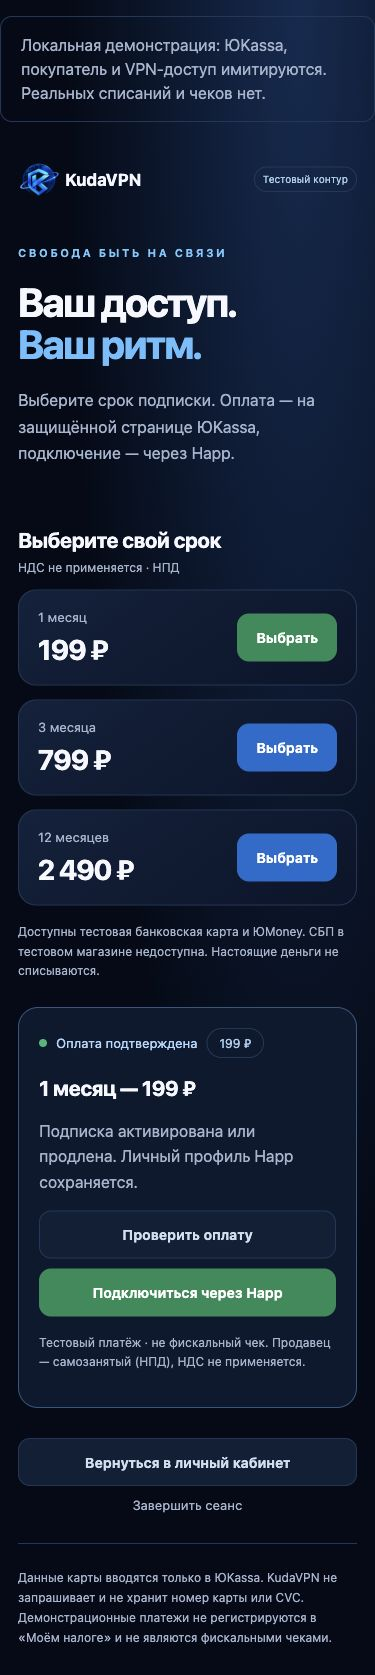
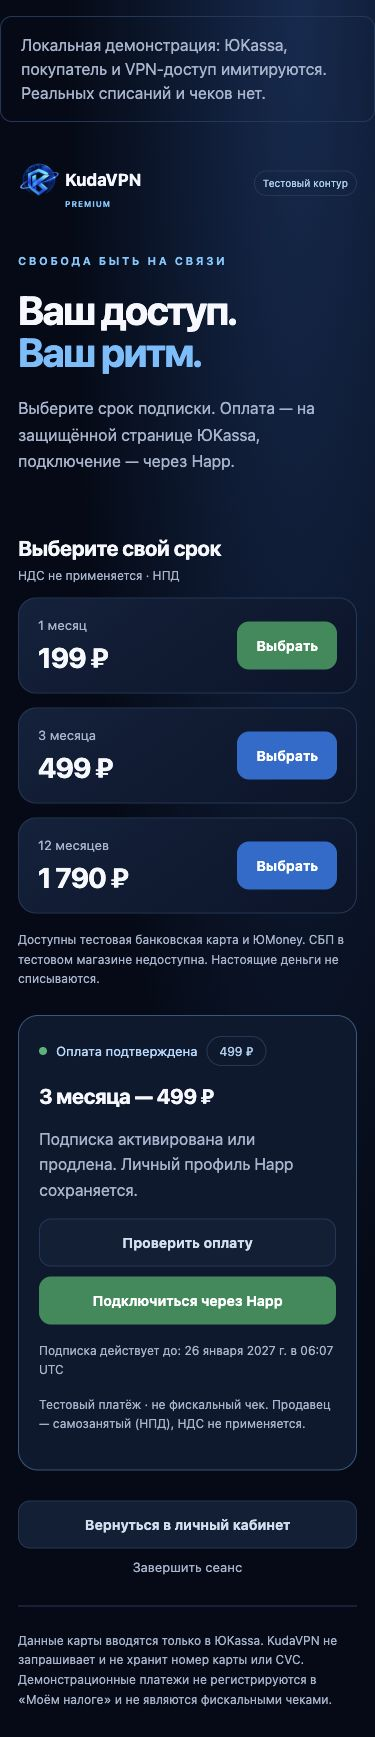
Version approved test prices and prove checkout recovery without duplicate access

diff --git a/bot/subscription_api/static/checkout.css b/bot/subscription_api/static/checkout.css
@@ -1,1 +1,1 @@
-:root{color-scheme:dark;--bg:#040a17;--surface:#0a1730;--line:#203858;--blue:#209dff;--green:#2db677;--muted:#a4b4ce}*{box-sizing:border-box}body{margin:0;background:radial-gradient(ellipse at 80% 0,#102b51,transparent 55%),var(--bg);color:#f5f8ff;font-family:system-ui,-apple-system,BlinkMacSystemFont,"Segoe UI",sans-serif;min-height:100vh}.shell{max-width:1080px;margin:auto;padding:30px 36px 40px}header{display:flex;align-items:center;justify-content:space-between;gap:20px}.brand{display:flex;align-items:center;gap:9px;text-decoration:none;color:inherit;font-size:21px;font-weight:700}.brand img{width:54px;height:54px;object-fit:contain}.brand span{font-size:11px;color:#70c6ff;letter-spacing:.1em;text-transform:uppercase}.badge{border:1px solid var(--line);border-radius:99px;padding:7px 12px;font-size:12px;white-space:nowrap;color:#a8ceef}.hero{padding:54px 0 28px;max-width:650px}.eyebrow{font-size:11px;letter-spacing:.23em;color:#73c8ff;font-weight:650}h1{font-size:clamp(40px,7vw,68px);line-height:1.05;letter-spacing:-.045em;margin:22px 0}h1 span{color:#68bfff}.lead{color:var(--muted);line-height:1.65;max-width:560px;font-size:16px}h2{font-size:21px;letter-spacing:-.02em}.section-heading{display:flex;gap:16px;align-items:center;justify-content:space-between}.section-heading span{font-size:12px;color:var(--muted)}.plans{display:grid;grid-template-columns:repeat(3,1fr);gap:14px}.plan{border:1px solid var(--line);border-radius:18px;background:linear-gradient(145deg,#11223d,#09142a);padding:23px}.plan p{margin:0;color:var(--muted);font-size:13px}.plan strong{display:block;font-size:32px;letter-spacing:-.04em;margin:15px 0 20px}.button{display:inline-flex;align-items:center;justify-content:center;min-height:48px;padding:12px 18px;border-radius:12px;border:1px solid transparent;text-decoration:none;font:inherit;font-size:14px;font-weight:650;cursor:pointer;transition:filter .18s,transform .18s;color:#fff}.button:hover{filter:brightness(1.1)}.button:active{transform:translateY(1px)}.button:focus-visible,.text-button:focus-visible,a:focus-visible{outline:3px solid #83ceff;outline-offset:3px}.button:disabled{opacity:.55;cursor:wait}.plan .button{width:100%}.green{background:#218b58}.blue{background:#176dd0}.secondary{background:#101f37;border-color:var(--line);color:#d0def0}.small,footer{font-size:12px;line-height:1.65;color:var(--muted)}.small{margin:16px 0}.order{border:1px solid #31577f;border-radius:20px;padding:25px;margin-top:26px;background:#0b1930}.status-head{display:flex;align-items:center;gap:9px;font-size:13px;color:#b1d9ff}.status-head .badge{margin-left:auto}.status-dot{width:8px;height:8px;border-radius:50%;background:var(--blue)}.status-dot.success{background:var(--green)}.status-dot.error{background:#e5a064}.order p{line-height:1.6;color:var(--muted)}.actions,.account-actions{display:flex;flex-wrap:wrap;gap:10px}.account-actions{justify-content:space-between;align-items:center;margin:30px 0}.text-button{border:0;background:none;color:var(--muted);font:inherit;font-size:13px;cursor:pointer}.notice{padding:16px 20px;border:1px solid var(--line);border-radius:12px;color:var(--muted);line-height:1.5}.notice.error{border-color:#80623f;color:#efd2ad}footer{border-top:1px solid var(--line);padding-top:24px;margin-top:30px}[hidden]{display:none!important}@media(max-width:650px){.shell{padding:20px 18px 28px}.brand{font-size:17px;gap:5px}.brand img{width:42px;height:42px}.brand span{display:none}.hero{padding-top:35px}.plans{grid-template-columns:1fr}.plan{display:grid;grid-template-columns:1fr auto;column-gap:14px;padding:19px}.plan strong{grid-column:1;margin:8px 0 0;font-size:28px}.plan .button{grid-column:2;grid-row:1/3;align-self:center;width:auto}.section-heading{align-items:flex-start;flex-direction:column;gap:0;margin-bottom:15px}.section-heading h2{margin-bottom:8px}.order{padding:20px}.actions>.button,.account-actions>.button{width:100%}.account-actions{justify-content:center}.status-head{flex-wrap:wrap}.status-head .badge{margin-left:0}header>.badge{font-size:10px;padding:6px 8px}}@media(prefers-reduced-motion:reduce){*,*:before,*:after{transition:none!important;animation:none!important;scroll-behavior:auto!important}}
+:root{color-scheme:dark;--bg:#040a17;--surface:#0a1730;--line:#203858;--blue:#209dff;--green:#2db677;--muted:#a4b4ce}*{box-sizing:border-box}body{margin:0;background:radial-gradient(ellipse at 80% 0,#102b51,transparent 55%),var(--bg);color:#f5f8ff;font-family:system-ui,-apple-system,BlinkMacSystemFont,"Segoe UI",sans-serif;min-height:100vh}.shell{max-width:1080px;margin:auto;padding:30px 36px 40px}header{display:flex;align-items:center;justify-content:space-between;gap:20px}.brand{display:flex;align-items:center;gap:9px;text-decoration:none;color:inherit;font-size:21px;font-weight:700}.brand img{width:54px;height:54px;object-fit:contain}.brand span{font-size:11px;color:#70c6ff;letter-spacing:.1em;text-transform:uppercase}.badge{border:1px solid var(--line);border-radius:99px;padding:7px 12px;font-size:12px;white-space:nowrap;color:#a8ceef}.hero{padding:54px 0 28px;max-width:650px}.eyebrow{font-size:11px;letter-spacing:.23em;color:#73c8ff;font-weight:650}h1{font-size:clamp(40px,7vw,68px);line-height:1.05;letter-spacing:-.045em;margin:22px 0}h1 span{color:#68bfff}.lead{color:var(--muted);line-height:1.65;max-width:560px;font-size:16px}h2{font-size:21px;letter-spacing:-.02em}.section-heading{display:flex;gap:16px;align-items:center;justify-content:space-between}.section-heading span{font-size:12px;color:var(--muted)}.plans{display:grid;grid-template-columns:repeat(3,1fr);gap:14px}.plan{border:1px solid var(--line);border-radius:18px;background:linear-gradient(145deg,#11223d,#09142a);padding:23px}.plan p{margin:0;color:var(--muted);font-size:13px}.plan strong{display:block;font-size:32px;letter-spacing:-.04em;margin:15px 0 20px}.button{display:inline-flex;align-items:center;justify-content:center;min-height:48px;padding:12px 18px;border-radius:12px;border:1px solid transparent;text-decoration:none;font:inherit;font-size:14px;font-weight:650;cursor:pointer;transition:filter .18s,transform .18s;color:#fff}.button:hover{filter:brightness(1.1)}.button:active{transform:translateY(1px)}.button:focus-visible,.text-button:focus-visible,a:focus-visible{outline:3px solid #83ceff;outline-offset:3px}.button:disabled{opacity:.55;cursor:wait}.plan .button{width:100%}.green{background:#218b58}.blue{background:#176dd0}.secondary{background:#101f37;border-color:var(--line);color:#d0def0}.small,footer{font-size:12px;line-height:1.65;color:var(--muted)}.small{margin:16px 0}.order{border:1px solid #31577f;border-radius:20px;padding:25px;margin-top:26px;background:#0b1930}.status-head{display:flex;align-items:center;gap:9px;font-size:13px;color:#b1d9ff}.status-head .badge{margin-left:auto}.status-dot{width:8px;height:8px;border-radius:50%;background:var(--blue)}.status-dot.success{background:var(--green)}.status-dot.error{background:#e5a064}.order p{line-height:1.6;color:var(--muted)}.actions,.account-actions{display:flex;flex-wrap:wrap;gap:10px}.account-actions{justify-content:space-between;align-items:center;margin:30px 0}.text-button{border:0;background:none;color:var(--muted);font:inherit;font-size:13px;cursor:pointer}.notice{padding:16px 20px;border:1px solid var(--line);border-radius:12px;color:var(--muted);line-height:1.5}.notice.error{border-color:#80623f;color:#efd2ad}footer{border-top:1px solid var(--line);padding-top:24px;margin-top:30px}[hidden]{display:none!important}@media(max-width:650px){.shell{padding:20px 18px 28px}.brand{font-size:17px;gap:5px}.brand img{width:42px;height:42px}.brand{position:relative;padding-bottom:8px}.brand span{display:block;position:absolute;left:47px;bottom:0;font-size:8px;line-height:1}.hero{padding-top:35px}.plans{grid-template-columns:1fr}.plan{display:grid;grid-template-columns:1fr auto;column-gap:14px;padding:19px}.plan strong{grid-column:1;margin:8px 0 0;font-size:28px}.plan .button{grid-column:2;grid-row:1/3;align-self:center;width:auto}.section-heading{align-items:flex-start;flex-direction:column;gap:0;margin-bottom:15px}.section-heading h2{margin-bottom:8px}.order{padding:20px}.actions>.button,.account-actions>.button{width:100%}.account-actions{justify-content:center}.status-head{flex-wrap:wrap}.status-head .badge{margin-left:0}header>.badge{font-size:10px;padding:6px 8px}}@media(prefers-reduced-motion:reduce){*,*:before,*:after{transition:none!important;animation:none!important;scroll-behavior:auto!important}}

diff --git a/bot/subscription_api/static/checkout.js b/bot/subscription_api/static/checkout.js
@@ -38,6 +38,8 @@
     if (data.state === 'pending' && !paymentUrl) el('order-description').textContent += ' Чтобы вернуться к оплате, снова выберите тот же тариф — сохранится текущий заказ.';
     const connect = el('connect-link'); connect.hidden = !data.connect_url;
     if (data.connect_url) connect.href = data.connect_url; else connect.removeAttribute('href');
+    const expiry = el('subscription-expiry'); expiry.hidden = !data.subscription_expires_at;
+    expiry.textContent = data.subscription_expires_at ? 'Подписка действует до: ' + new Intl.DateTimeFormat('ru-RU', {dateStyle: 'long', timeStyle: 'short', timeZone: 'UTC'}).format(new Date(data.subscription_expires_at)) + ' UTC' : '';
     if (data.access_pending) el('order-description').textContent += ' Доступ к узлу пока готовится. Обновите статус позже.';
     el('receipt-status').textContent = 'Тестовый платёж · не фискальный чек. Продавец — самозанятый (НПД), НДС не применяется.';
     if (timer) clearTimeout(timer);

diff --git a/bot/subscription_api/static/checkout.html b/bot/subscription_api/static/checkout.html
@@ -16,6 +16,7 @@
 <div class="actions"><a id="provider-link" class="button blue" hidden rel="noreferrer noopener">Перейти к тестовой оплате</a>
 <button id="refresh" class="button secondary" type="button">Проверить оплату</button>
 <a id="connect-link" class="button green" hidden rel="noreferrer noopener">Подключиться через Happ</a></div>
+<p id="subscription-expiry" class="small" hidden></p>
 <p id="receipt-status" class="small"></p></section>
 <p id="error" class="notice error" role="alert" hidden></p>
 <div class="account-actions"><a class="button secondary" href="https://t.me/KudaVPN_Test_Bot" rel="noreferrer noopener">Вернуться в личный кабинет</a><button id="logout" type="button" class="text-button">Завершить сеанс</button></div>

diff --git a/tests/test_web_checkout.py b/tests/test_web_checkout.py
@@ -9,11 +9,13 @@ import pytest
 from aiohttp import CookieJar
 from aiohttp.test_utils import TestClient, TestServer
 from sqlalchemy import select, func
+from sqlalchemy.ext.asyncio import create_async_engine, async_sessionmaker
 
 from bot.db.models import Payment, Subscription, SubscriptionHistory, NodeAccess
-from bot.services import PILOT_TARIFFS
+from bot.services import PILOT_TARIFFS, TARIFFS
 from bot.services.checkout_sessions import CheckoutSessions
 from bot.services.payment_notifications import PaymentNotificationProcessor
+from bot.services.payment_events import add_months
 from bot.services.payment_polling import TestPaymentPoller as PaymentPoller
 from bot.services.payment_refunds import RefundReviews, TestRefundProcessor as RefundProcessor
 from bot.services.payments import PaymentCheckoutService
@@ -121,7 +123,7 @@ def test_browser_cookie_is_secure_and_http_only_outside_local_demo(tmp_path):
     asyncio.run(run())
 
 
-@pytest.mark.parametrize('plan,amount', [('pilot_month_199', 19900), ('quarter', 79900), ('year', 249000)])
+@pytest.mark.parametrize('plan,amount', [('pilot_month_199', 19900), ('pilot_quarter_499', 49900), ('pilot_year_1790', 179000)])
 def test_new_purchase_amounts_duplicates_and_connection(tmp_path, plan, amount):
     async def run():
         async with portal(tmp_path) as p:
@@ -142,6 +144,9 @@ def test_new_purchase_amounts_duplicates_and_connection(tmp_path, plan, amount):
             assert data['state'] == 'succeeded' and data['connect_url'].endswith('/connect/offline')
             async with p.db() as session:
                 assert await session.scalar(select(func.count()).select_from(Subscription)) == 1
+                sub = await session.scalar(select(Subscription))
+                assert as_utc(sub.expires_at) == add_months(as_utc(sub.starts_at), PILOT_TARIFFS[plan].months)
+                assert data['subscription_expires_at'] == as_utc(sub.expires_at).isoformat()
                 assert await session.scalar(select(func.count()).select_from(SubscriptionHistory).where(
                     SubscriptionHistory.reason == 'payment')) == 1
             p.service.happ.issue_for_user.side_effect = TimeoutError()
@@ -154,11 +159,11 @@ def test_auth_csrf_foreign_order_and_price_tampering(tmp_path):
     async def run():
         async with portal(tmp_path) as p:
             assert (await p.http.post('/checkout/api/session', json={'token': p.invite}, headers={'Origin': ORIGIN})).status == 401
-            assert (await p.http.post('/checkout/api/orders', json={'tariff_id': 'quarter'})).status == 403
-            assert (await p.http.post('/checkout/api/orders', json={'tariff_id': 'quarter'}, headers={**p.headers, 'Origin': 'https://evil.example'})).status == 403
+            assert (await p.http.post('/checkout/api/orders', json={'tariff_id': 'pilot_quarter_499'})).status == 403
+            assert (await p.http.post('/checkout/api/orders', json={'tariff_id': 'pilot_quarter_499'}, headers={**p.headers, 'Origin': 'https://evil.example'})).status == 403
             for body in ({'tariff_id': 'month'}, {'tariff_id': 'pilot_month_199', 'amount_kopecks': 1}):
                 assert (await p.http.post('/checkout/api/orders', json=body, headers=p.headers)).status == 400
-            foreign = await p.service.checkout.create_for_user(502, 'quarter')
+            foreign = await p.service.checkout.create_for_user(502, 'pilot_quarter_499')
             async with p.db() as session:
                 row = await session.scalar(select(Payment).where(Payment.provider_payment_id == foreign.provider_id))
             assert (await p.http.get('/checkout/api/orders/' + str(row.id))).status == 404
@@ -169,6 +174,84 @@ def test_auth_csrf_foreign_order_and_price_tampering(tmp_path):
             assert "script-src 'self'" in response.headers['Content-Security-Policy']
             assert (await p.http.post('/checkout/api/logout', headers=p.headers)).status == 200
             assert (await p.http.get('/checkout/api/session')).status == 401
+    asyncio.run(run())
+
+
+@pytest.mark.parametrize('old_plan,new_plan,old_amount,new_amount', [
+    ('month', 'pilot_month_199', 29900, 19900),
+    ('quarter', 'pilot_quarter_499', 79900, 49900),
+    ('year', 'pilot_year_1790', 249000, 179000),
+])
+def test_repriced_offers_preserve_historical_order_amount_and_term(
+        tmp_path, old_plan, new_plan, old_amount, new_amount):
+    async def run():
+        async with portal(tmp_path) as p:
+            legacy = PaymentCheckoutService(p.db, p.client, ORIGIN + '/checkout')
+            intent = await legacy.create_for_user(501, old_plan)
+            async with p.db() as db:
+                old = await db.scalar(select(Payment).where(Payment.provider_payment_id == intent.provider_id))
+            new = await create(p, new_plan)
+            assert old.amount_kopecks == old_amount and new['amount_kopecks'] == new_amount
+            assert str(old.id) != new['id']
+            # Old buttons are readable as history, never accepted for a new sale.
+            assert (await p.http.post('/checkout/api/orders', json={'tariff_id': old_plan}, headers=p.headers)).status == 400
+            state = await p.service.state(501, str(old.id))
+            assert state['amount_kopecks'] == old_amount
+            assert state['months'] == TARIFFS[old_plan].months
+            assert state['label'] == TARIFFS[old_plan].label
+            p.fake.rows[intent.provider_id].update(status='succeeded', paid=True, captured_at=utcnow().isoformat())
+            assert (await webhook(p, intent.provider_id)).status == 200
+            async with p.db() as db:
+                sub = await db.scalar(select(Subscription))
+                assert as_utc(sub.expires_at) > utcnow() + timedelta(days=27 * TARIFFS[old_plan].months)
+                assert (await db.get(Payment, old.id)).amount_kopecks == old_amount
+    asyncio.run(run())
+
+
+def test_restart_recovers_pending_order_session_and_once_only_fulfillment(tmp_path):
+    async def run():
+        async with portal(tmp_path) as p:
+            order = await create(p, 'pilot_quarter_499')
+            async with p.db() as db:
+                saved = await db.scalar(select(Payment))
+                stable_key, provider_id = saved.idempotency_key, saved.provider_payment_id
+            cookie = p.http.session.cookie_jar.filter_cookies(p.http.make_url('/checkout'))['kuda_test_checkout'].value
+            # A new engine, session ledger and app reuse only durable state.
+            # Provider state represents the remote shop, independent of the app.
+            engine = create_async_engine('sqlite+aiosqlite:///' + str(tmp_path / 'payments.db'))
+            db = async_sessionmaker(engine, expire_on_commit=False)
+            try:
+                browser = CheckoutSessions(str(p.sessions.path), 501)
+                assert browser.owner(cookie) == 501
+                checkout = PaymentCheckoutService(db, p.client, ORIGIN + '/checkout', tariffs=PILOT_TARIFFS)
+                processor = PaymentNotificationProcessor(db, p.client)
+                service = WebCheckout(db, checkout, processor, p.service.happ, 501)
+                assert (await service.latest(501))['id'] == order['id']
+                retried = await service.create(501, 'pilot_quarter_499')
+                assert retried['id'] == order['id']
+                async with db() as session:
+                    assert (await session.get(Payment, saved.id)).idempotency_key == stable_key
+                await provider_success(p, order)
+                # Restarted poller recovers a confirmation missed during downtime.
+                await PaymentPoller(db, p.client).tick()
+                state = await service.state(501, order['id'])
+                assert state['state'] == 'succeeded' and state['subscription_expires_at']
+                await PaymentNotificationProcessor(db, p.client).process(provider_id)
+                await PaymentPoller(db, p.client).tick()
+                assert (await service.state(501, order['id']))['subscription_expires_at'] == state['subscription_expires_at']
+                async with db() as session:
+                    assert await session.scalar(select(func.count()).select_from(SubscriptionHistory).where(
+                        SubscriptionHistory.reason == 'payment')) == 1
+                    assert await session.scalar(select(func.count()).select_from(Payment)) == 1
+                app = create_checkout_app(service, browser, ORIGIN, local_demo=True)
+                async with TestClient(TestServer(app), cookie_jar=CookieJar(unsafe=True)) as restarted:
+                    restarted.session.cookie_jar.update_cookies({'kuda_test_checkout': cookie})
+                    response = await restarted.get('/checkout/api/orders/latest')
+                    assert response.status == 200
+                    restored = (await response.json())['order']
+                    assert restored['id'] == order['id'] and restored['state'] == 'succeeded'
+            finally:
+                await engine.dispose()
     asyncio.run(run())
 
 
@@ -291,7 +374,7 @@ def test_refund_of_earlier_payment_is_reviewed_without_removing_later_renewal(tm
             first = await create(p)
             first_provider = await provider_success(p, first)
             await webhook(p, first_provider)
-            second = await create(p, 'quarter')
+            second = await create(p, 'pilot_quarter_499')
             await webhook(p, await provider_success(p, second))
             async with p.db() as session:
                 end = as_utc((await session.scalar(select(Subscription))).expires_at)
@@ -322,7 +405,7 @@ def test_web_199_purchase_and_renewal_keep_real_issuer_uuid_and_https_link(tmp_p
             reconciler, health = NodeReconciler(db, gateway), NodeHealthMonitor(db, gateway)
             original_uuid = original_link = first_expiry = None
             paid = []
-            for _ in range(2):
+            for attempt in range(2):
                 order = await website.create(501, 'pilot_month_199')
                 async with db() as session:
                     payment = await session.scalar(select(Payment).where(
@@ -335,10 +418,26 @@ def test_web_199_purchase_and_renewal_keep_real_issuer_uuid_and_https_link(tmp_p
                 await processor.process(payment.provider_payment_id)
                 async with db() as session:
                     sub = await session.scalar(select(Subscription))
+                if attempt == 0:
+                    gateway.available = False
+                    with pytest.raises(RuntimeError, match='incomplete'):
+                        await reconciler.reconcile(sub.id)
+                    async with db() as session:
+                        durable = await session.scalar(select(NodeAccess))
+                        pending_uuid = durable.credential
+                        assert durable.desired_enabled and not durable.enabled
+                    waiting = await website.state(501, order['id'])
+                    assert waiting['state'] == 'succeeded' and waiting['access_pending']
+                    assert 'connect_url' not in waiting
+                    gateway.available = True
+                    # A new worker retries the same durable intent after recovery.
+                    reconciler = NodeReconciler(db, gateway)
+                await reconciler.reconcile(sub.id)
                 await reconciler.reconcile(sub.id)
                 await health.tick()
                 async with db() as session:
                     access = await session.scalar(select(NodeAccess))
+                    assert access.credential == pending_uuid
                 link = await feed.issue_for_user(501)
                 state = await website.state(501, order['id'])
                 assert state['state'] == 'succeeded' and '/connect/' in state['connect_url']

diff --git a/bot/services/web_checkout.py b/bot/services/web_checkout.py
@@ -5,7 +5,7 @@ from uuid import UUID
 from sqlalchemy import select
 
 from bot.db.models import Payment, User
-from bot.services import PILOT_TARIFFS
+from bot.services import PILOT_TARIFFS, BILLABLE_TARIFFS
 from bot.services.happ import AccessDenied
 from bot.services.payments import _safe_confirmation_url
 from bot.services.subscriptions import SubscriptionService, as_utc, utcnow
@@ -39,9 +39,9 @@ class WebCheckout:
         async with self.sessions() as session:
             payment = await session.scalar(select(Payment).join(User).where(
                 Payment.id == key, User.telegram_id == user_id, Payment.provider == 'yookassa'))
-        if payment is None or payment.tariff_id not in PILOT_TARIFFS:
+        if payment is None or payment.tariff_id not in BILLABLE_TARIFFS:
             raise OrderUnavailable()
-        if payment.amount_kopecks != PILOT_TARIFFS[payment.tariff_id].price_rub * 100:
+        if payment.amount_kopecks != BILLABLE_TARIFFS[payment.tariff_id].price_rub * 100:
             raise OrderUnavailable()
         return payment
 
@@ -50,7 +50,7 @@ class WebCheckout:
         async with self.sessions() as session:
             key = await session.scalar(select(Payment.id).join(User).where(
                 User.telegram_id == user_id, Payment.provider == 'yookassa',
-                Payment.tariff_id.in_(PILOT_TARIFFS)).order_by(Payment.created_at.desc()).limit(1))
+                Payment.tariff_id.in_(BILLABLE_TARIFFS)).order_by(Payment.created_at.desc()).limit(1))
         return await self.state(user_id, str(key)) if key else None
 
     async def create(self, user_id, tariff_id):
@@ -83,7 +83,8 @@ class WebCheckout:
         deadline = as_utc(row.created_at) + timedelta(minutes=30)
         if state == 'pending' and deadline <= utcnow():
             state = 'expired'
-        result = {'id': str(row.id), 'state': state, 'label': PILOT_TARIFFS[row.tariff_id].label,
+        result = {'id': str(row.id), 'state': state, 'label': BILLABLE_TARIFFS[row.tariff_id].label,
+                  'months': BILLABLE_TARIFFS[row.tariff_id].months,
                   'amount_kopecks': row.amount_kopecks, 'currency': row.currency,
                   'expires_at': deadline.isoformat(), 'test': True,
                   'receipt': 'test_not_fiscal', 'seller_regime': 'npd', 'vat': 'not_applicable'}

diff --git a/tests/test_pilot_tariffs.py b/tests/test_pilot_tariffs.py
@@ -19,15 +19,16 @@ def test_pilot_catalog_and_native_styles_do_not_change_legacy_catalog():
     screen = screens.tariffs(premium_account=True, test_payment=True)
     buttons = [b for row in screen.keyboard.inline_keyboard for b in row]
     assert [b.text for b in buttons[:3]] == [
-        '1 месяц — 199 ₽', '3 месяца — 799 ₽', '12 месяцев — 2490 ₽']
+        '1 месяц — 199 ₽', '3 месяца — 499 ₽', '12 месяцев — 1790 ₽']
     assert [b.style for b in buttons[:3]] == ['success', 'primary', 'primary']
     assert '299 ₽' not in screen.text and 'Стартовые' not in screen.text
     assert not any((b.callback_data or '').startswith(('launchplan:', 'nav:launch')) for b in buttons)
     default = screens.tariffs()
     assert '299 ₽' in default.text and '199 ₽' not in default.text
     assert [p.price_rub for p in TARIFFS.values()] == [299, 799, 2490]
-    assert PILOT_TARIFFS['quarter'] == TARIFFS['quarter']
-    assert PILOT_TARIFFS['year'] == TARIFFS['year']
+    assert [p.price_rub for p in PILOT_TARIFFS.values()] == [199, 499, 1790]
+    assert not set(PILOT_TARIFFS).intersection(TARIFFS)
+    assert 'Скоро' not in screen.text and 'скоро' not in screen.text
 
 
 def test_old_tariff_buttons_cannot_create_old_price_order_in_premium():

diff --git a/bot/services/__init__.py b/bot/services/__init__.py
@@ -18,12 +18,12 @@ TARIFFS = {
     "year": Tariff("year", 12, 2490, "12 месяцев — 2490 ₽"),
 }
 
-# A new price is a new tariff version: never reinterpret old 299 RUB orders.
+# Every approved price change gets a new ID; historical orders keep their price.
 # Only the isolated Premium checkout opts into this catalog.
 PILOT_TARIFFS = {
     "pilot_month_199": Tariff("pilot_month_199", 1, 199, "1 месяц — 199 ₽"),
-    "quarter": TARIFFS["quarter"],
-    "year": TARIFFS["year"],
+    "pilot_quarter_499": Tariff("pilot_quarter_499", 3, 499, "3 месяца — 499 ₽"),
+    "pilot_year_1790": Tariff("pilot_year_1790", 12, 1790, "12 месяцев — 1790 ₽"),
 }
 BILLABLE_TARIFFS = {**TARIFFS, **PILOT_TARIFFS}
 

diff --git a/bot/handlers/subscription.py b/bot/handlers/subscription.py
@@ -20,7 +20,7 @@ async def buy(callback: CallbackQuery, services: Services, navigation: Navigatio
 
 
 async def select_tariff(callback: CallbackQuery, services: Services, navigation: Navigation):
-    # Selecting a tariff does not create an order; a second explicit tap does.
+    # Tariff selection is informational; external checkout is disabled in Telegram.
     await navigation.callback(callback, screens.tariff_details(
         (callback.data or "").partition(":")[2],
         test_payment=pilot_payment_allowed(callback, services),

diff --git a/docs/standalone-test-checkout.md b/docs/standalone-test-checkout.md
@@ -1,23 +1,29 @@
 # Самостоятельный тестовый checkout KudaVPN Premium
 
-Ветка `codex/standalone-test-checkout-20261025`, [Draft PR №27](https://github.com/Denis-hud-dev/vpn-service/pull/27) поверх №26. Код `9dbd008`, [CI 40230857131](https://github.com/Denis-hud-dev/vpn-service/actions/runs/40230857131) успешен. Это новый изолированный веб-путь, использующий существующие PaymentCheckoutService, PaymentNotificationProcessor, SubscriptionService, HappService и уведомления. Production-адаптер, реальные платежи и публичные продажи не включены.
+Ветка `codex/standalone-test-checkout-20261025`, [Draft PR №27](https://github.com/Denis-hud-dev/vpn-service/pull/27) поверх №26. Текущие коммит и CI — в [Checks PR №27](https://github.com/Denis-hud-dev/vpn-service/pull/27/checks). Предыдущий код `9dbd008` прошёл CI до обновления цен. Это новый изолированный веб-путь, использующий существующие PaymentCheckoutService, PaymentNotificationProcessor, SubscriptionService, HappService и уведомления. Production-адаптер, реальные платежи и публичные продажи не включены.
 
 ## Граница Telegram / самостоятельного сайта
 
-По [официальной документации Telegram](https://core.telegram.org/bots/payments-stars) цифровые услуги внутри ботов/Mini Apps оплачиваются Stars. Наличие своего сайта не отменяет требования для покупок внутри Telegram. Поэтому новая ветка убирает внешний checkout из обработчиков бота, включая owner-only callback: старый paytest:* лишь объясняет ограничение; не создаёт заказ и не выдаёт внешнюю платёжную ссылку. Тестовые тарифы 199 / 799 / 2490 ₽ остаются информацией. Stars-покупка в этой ветке не реализована: стоимость в XTR требует отдельного решения.
+По [официальной документации Telegram](https://core.telegram.org/bots/payments-stars) цифровые услуги внутри ботов/Mini Apps оплачиваются Stars. Наличие своего сайта не отменяет требования для покупок внутри Telegram. Поэтому новая ветка убирает внешний checkout из обработчиков бота, включая owner-only callback: старый paytest:* лишь объясняет ограничение; не создаёт заказ и не выдаёт внешнюю платёжную ссылку. Тестовые тарифы 199 / 499 / 1790 ₽ остаются информацией. Stars-покупка в этой ветке не реализована: стоимость в XTR требует отдельного решения.
 
 ЮKassa-checkout — самостоятельный сайт для независимого открытия в обычном браузере. В боте нет ссылки на его покупку и нет инструкции обходить Stars через внешний браузер. Это не Mini App и не редирект из Telegram для оплаты. Ссылка возвращения после покупки ведёт в кабинет тестового бота для управления уже приобретённым доступом. Перед публичным продвижением окончательно проверить конкретный пользовательский путь на соответствие [условиям Telegram](https://telegram.org/tos/bot-developers#6-2-digital-goods-and-services).
 
 ## Реализованный сценарий
 
 1. Для ограниченного теста доверенный локальный оператор выпускает владельцу одноразовый вход вне Telegram. Он привязан к заранее настроенному Telegram ID, действует 10 минут, обменивается на часовую браузерную сессию. В приватной SQLite хранятся только хеши случайных credentials. Это тестовый доступ, а не публичная регистрация покупателей.
-2. На сайте выбран тариф; цена всегда берётся с сервера: 19900 / 79900 / 249000 копеек. Клиент не передаёт сумму или ID покупателя. POST требует Origin и CSRF; заказ сериализуется существующим checkout и привязывается к своему User.
+2. На сайте выбран тариф; цена всегда берётся с сервера: 19900 / 49900 / 179000 копеек. Клиент не передаёт сумму или ID покупателя. POST требует Origin и CSRF; заказ сериализуется существующим checkout и привязывается к своему User.
 3. Тестовый HTTP-клиент создаёт платёж в уже согласованном магазине 1503208 с order UUID, metadata.order_id и Idempotence-Key. Повтор нажатия/тайм-аут возвращает прежний pending-заказ в его окне. Страница показывает выбранный тариф и цену. Данные карты вводятся только на готовой странице ЮKassa.
 4. Браузерный redirect не подтверждает оплату. Существующий обработчик независимо получает данные API своего магазина, сверяет test=true, ID, metadata, сумму, валюту, paid/succeeded. Используется опрос; добавлены ограниченные задержки с jitter после ошибок. Webhook остаётся только подсказкой для того же GET, без доверия телу уведомления.
 5. Существующая транзакция создаёт/продлевает единственную подписку и пишет единственное событие применения. Не меняет действующий UUID или ключ личной HTTPS-подписки. Нужен актуальный доступ/здоровье узла: при ожидании настройки сайт отдельно показывает «доступ готовится», а не выдуманную готовую ссылку. Бот продолжает доставлять важное подтверждение через существующий PremiumNoticeService.
 6. Сайт показывает ожидание, успех, отмену, истечение окна, временную ошибку или возврат; после успеха предлагает существующую персональную страницу подключения Happ. Повторная проверка не прибавляет срок ещё раз.
 
 Окно оформления pending-заказа — 30 минут. По истечении UI скрывает оплату старого заказа. Это не фиктивная отмена у провайдера: если платёж всё же подтверждён позднее, он применяется один раз, а не теряется. Для новой попытки нужен явный новый выбор тарифа. Возврат в кабинет сам по себе ничего не списывает.
+
+## Версии цен и восстановление
+
+Утверждённый новый каталог: `pilot_month_199`, `pilot_quarter_499`, `pilot_year_1790`. Старые `month`/`quarter`/`year` и их 299/799/2490 ₽ сохранены только для истории и законно завершившихся старых заказов. Создание новых заказов принимает только новый каталог; DB, provider payload, сайт и test Premium UI получают одинаковую цену. Обычный production-каталог не изменён. Для истории показываются сохранённые сумма и версия тарифа.
+
+Проверено восстановление после пересоздания engine, session ledger, обработчика, poller и HTTP-приложения: прежний pending-заказ и ключ идемпотентности сохраняются, пропущенное подтверждение подхватывается из API ровно один раз. Это тест перезапуска компонентов на дисковой SQLite; аварийное завершение ОС отдельно не моделировалось. При outage агента подтверждённый платёж остаётся оплаченным, выдача помечается ожидающей; новый worker повторяет сохранённый intent и восстанавливает тот же UUID, без нового платежа/продления. Сам локальный визуальный эмулятор намеренно имеет временную БД: после остановки запускается чистая демонстрация, не база пользователей.
 
 ## Возвраты
 
@@ -66,10 +72,10 @@ python -m scripts.preview_test_checkout --port 18105
 
 ## Проверки и продолжение
 
-Новые HTTP/session/refund/integration проверки: **17 passed**. Включены три цены, повтор создания/уведомления, CSRF/Origin, чужой заказ, истечение сессии/заказа, поздняя подтверждённая оплата, несовпадение суммы, отмена, outage/backoff, полный/частичный/ранний возврат. Отдельный тест использует настоящий существующий Happ issuer и NodeReconciler с имитированным узлом: после двух покупок сохраняются UUID и HTTPS-ссылка, срок растёт один раз на каждую; после полного возврата доступ отзывается существующим механизмом. Ни реальный сервер, ни деньги не затронуты.
+Новые HTTP/session/refund/integration проверки: **21 passed**. Включены три цены, повтор создания/уведомления, CSRF/Origin, чужой заказ, истечение сессии/заказа, поздняя подтверждённая оплата, несовпадение суммы, отмена, outage/backoff, полный/частичный/ранний возврат. Отдельный тест использует настоящий существующий Happ issuer и NodeReconciler с имитированным узлом: после двух покупок сохраняются UUID и HTTPS-ссылка, срок растёт один раз на каждую; после полного возврата доступ отзывается существующим механизмом. Ни реальный сервер, ни деньги не затронуты.
 
-В браузере пройден локальный путь выбора 199 ₽ → явно подписанный эмулятор провайдера → успех и кнопка подключения; отдельно 799 ₽ → отмена. При первой проверке устаревшая демонстрационная сессия дала безопасный отказ CSRF; после нового локального входа путь работает, защиту не отключали. Эмулятор использует same-origin fetch для подтверждения, чтобы сочетаться с no-referrer и строгой Origin-проверкой. На ширинах **390 и 375 px** scrollWidth равен ширине окна, горизонтальной прокрутки нет; desktop-предпросмотр 1280 px проверен. Физические Android/iOS и платёжный сайт ЮKassa этим не проверены.
+В браузере пройден локальный путь выбора 199 ₽ → явно подписанный эмулятор провайдера → успех и кнопка подключения; после уточнения цен дополнительно 499 ₽ → успех с датой окончания из БД и 1790 ₽ → отмена. При первой проверке устаревшая демонстрационная сессия дала безопасный отказ CSRF; после нового локального входа путь работает, защиту не отключали. Эмулятор использует same-origin fetch для подтверждения, чтобы сочетаться с no-referrer и строгой Origin-проверкой. На ширинах **390 и 375 px** scrollWidth равен ширине окна, горизонтальной прокрутки нет; desktop-предпросмотр 1280 px проверен. Физические Android/iOS и платёжный сайт ЮKassa этим не проверены.
 
-Снимки: [desktop](screenshots/checkout-desktop.jpg), [mobile success](screenshots/checkout-mobile-success.jpg). Полный локальный набор: **242 passed, 9 skipped**. Последняя профильная проверка 17 новых сценариев после усиления прав session ledger прошла. Пропуски не считать успешными; CI дополнительно использует одноразовую PostgreSQL.
+Снимки: [desktop](screenshots/checkout-desktop.jpg), [mobile success](screenshots/checkout-mobile-success.jpg). Полный локальный набор: **246 passed, 9 skipped**. Последняя профильная проверка 21 checkout-сценария после проверки восстановления HTTP-приложения прошла. Пропуски не считать успешными; CI дополнительно использует одноразовую PostgreSQL.
 
 Для тестирования реальной страницы ЮKassa на Android/iOS нужен отдельно разрешённый HTTPS-стенд и действие владельца; локальная имитация и responsive viewport не доказывают физический платёж/импорт на устройстве. В этой сессии новые тестовые или настоящие платежи у ЮKassa не создавались, реальные ключи не использовались. Первый следующий технический шаг — согласовать изолированный HTTPS test checkout и новый безопасный вход владельца, затем провести только одну тестовую оплату через обычный браузер. Реальные продажи остаются запрещены.

diff --git a/docs/WORK_SESSION_HANDOFF.md b/docs/WORK_SESSION_HANDOFF.md
@@ -1,5 +1,17 @@
 # KudaVPN — текущая передача состояния
 
+## Уточнение цен и завершение тестового checkout — 25 октября 2026
+
+Продолжен существующий [Draft PR №27](https://github.com/Denis-hud-dev/vpn-service/pull/27) поверх №26; новая реализация/PR не создавались. По новому прямому решению владельца цены **новых** test Premium заказов: **199 / 499 / 1790 ₽** за 1/3/12 месяцев. Все три версии имеют отдельные ID; прежние заказы 299/799/2490 ₽, оплаченные периоды и история сохраняют свои суммы. Обычный production-каталог не изменён. Это решение заменяет указание не менять квартальный/годовой тариф в более раннем разделе ниже.
+
+Локально **246 passed, 9 skipped**; отдельно **21 checkout test** прошёл после последнего уточнения проверок. Покрыты три цены и точный срок, сохранность старых заказов, подлинная API-проверка на mock-провайдере, дубликаты, отмена, полный/частичный/ранний возврат, неверная сумма/чужой заказ/истечение, восстановление engine/session ledger/poller/HTTP app из дисковой БД, сбой агента и повтор сохранённого intent с тем же UUID. Никаких новых платежей в ЮKassa не создавалось. Физический телефон этим не проверен; пропуски не считать успешными.
+
+Локальный loopback предпросмотр **http://127.0.0.1:18105/__demo__/login** перезапущен с новыми ценами. В браузере 499 ₽ → эмулятор → успех/дата окончания из БД; 1790 ₽ → отмена. Desktop 1280 px, мобильные 390/375 px без горизонтального overflow. На мобильном видна подпись Premium; новые снимки сохранены в `docs/screenshots/checkout-*.jpg`. Это временная mock-БД и фиктивный доступ, не настоящий профиль Happ. После остановки процесса предпросмотр может потребовать повторного запуска: `python -m scripts.preview_test_checkout --port 18105`.
+
+**Не развёрнуто:** JustHost test bot остаётся версией PR №26 с прежними квартальным/годовым ценами, новая страница checkout и Stars-guard пока только в коде PR №27. Production, VPN, серверы, действующие подписки, реальные ключи и DigitalOcean не менялись. CI актуального коммита — в Checks PR №27; прежний `9dbd008` уже прошёл CI.
+
+**С чего продолжить:** согласовать только изолированный HTTPS test checkout и обновление test bot с отключением внешней оплаты из Telegram, приватный backup/rollback, свободный HTTPS endpoint без вмешательства в VPN. Затем владелец проводит одну sandbox-оплату в обычном браузере с безопасным owner-invite, проверяем API/БД/уведомление/Happ. Внутри Telegram — только будущий Stars; Stars не реализован. До реальных продаж отдельно закрыть публичную auth, поддержку/условия, процесс чеков НПД/доставки и review возвратов. НПД и отсутствие НДС подтверждены, не спрашивать снова. Подробнее: `docs/standalone-test-checkout.md`, `docs/SELLER_PROFILE.md`.
+
 ## Самостоятельная тестовая веб-оплата и НПД — 25 октября 2026
 
 Ветка `codex/standalone-test-checkout-20261025` поверх PR №26. Владелец подтвердил **самозанятого, НПД, магазин ЮKassa на самозанятого, без НДС**. Постоянные факты и порядок чеков — [SELLER_PROFILE.md](SELLER_PROFILE.md), не спрашивать статус заново. Тестовые платежи не регистрировать в «Моём налоге», не добавлять кассовые настройки ИП/ООО.

diff --git a/docs/SELLER_PROFILE.md b/docs/SELLER_PROFILE.md
@@ -16,7 +16,7 @@
 
 [ФНС](https://npd.nalog.ru/) описывает формирование чека с названием услуги и стоимостью и способы передачи: телефон, email, печать или QR. Для электронных расчётов безопасный рабочий процесс — формировать и передавать чек при расчёте; правило про 9-е число относится к иным безналичным формам, его нельзя автоматически применять ко всем картам/СБП. Условия — в [FAQ ФНС](https://npd.nalog.ru/faq/).
 
-Чек отражает полную сумму, уплаченную клиентом — **199 / 799 / 2490 ₽**, без уменьшения на комиссию ЮKassa. Расходы/комиссия не вычитаются из дохода НПД. НДС для KudaVPN по данным владельца не применяется; не добавлять в API чек 54-ФЗ, tax_system_code или vat_code от сценария ИП/ООО. Базовый [тестовый HTTP-адаптер](../bot/services/yookassa_api.py) таких полей не отправляет.
+Чек отражает полную сумму, уплаченную клиентом — **199 / 499 / 1790 ₽**, без уменьшения на комиссию ЮKassa. Для исторических покупок указывать их фактически уплаченную сохранённую сумму, а не новый прайс. Расходы/комиссия не вычитаются из дохода НПД. НДС для KudaVPN по данным владельца не применяется; не добавлять в API чек 54-ФЗ, tax_system_code или vat_code от сценария ИП/ООО. Базовый [тестовый HTTP-адаптер](../bot/services/yookassa_api.py) таких полей не отправляет.
 
 При реальном возврате требуется также корректировка чека в «Моём налоге» по основанию возврата. Это отдельная операция от API возврата и изменения VPN-доступа; основание и порядок описаны в [FAQ ФНС](https://npd.nalog.ru/faq/?lang=en). В тесте ничего в налоговую не регистрируется и реальные чеки не аннулируются.
 
